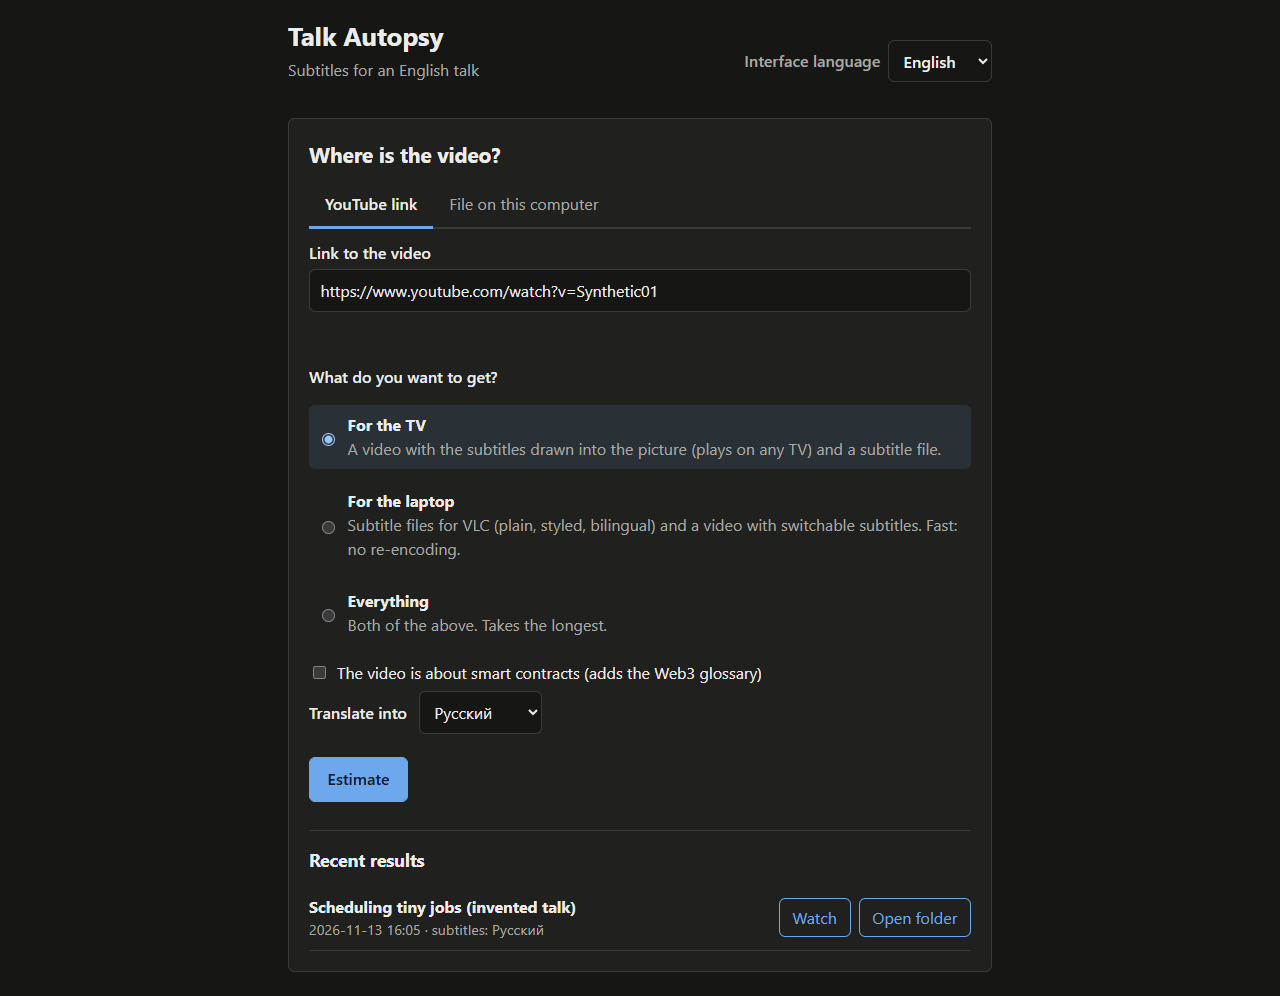
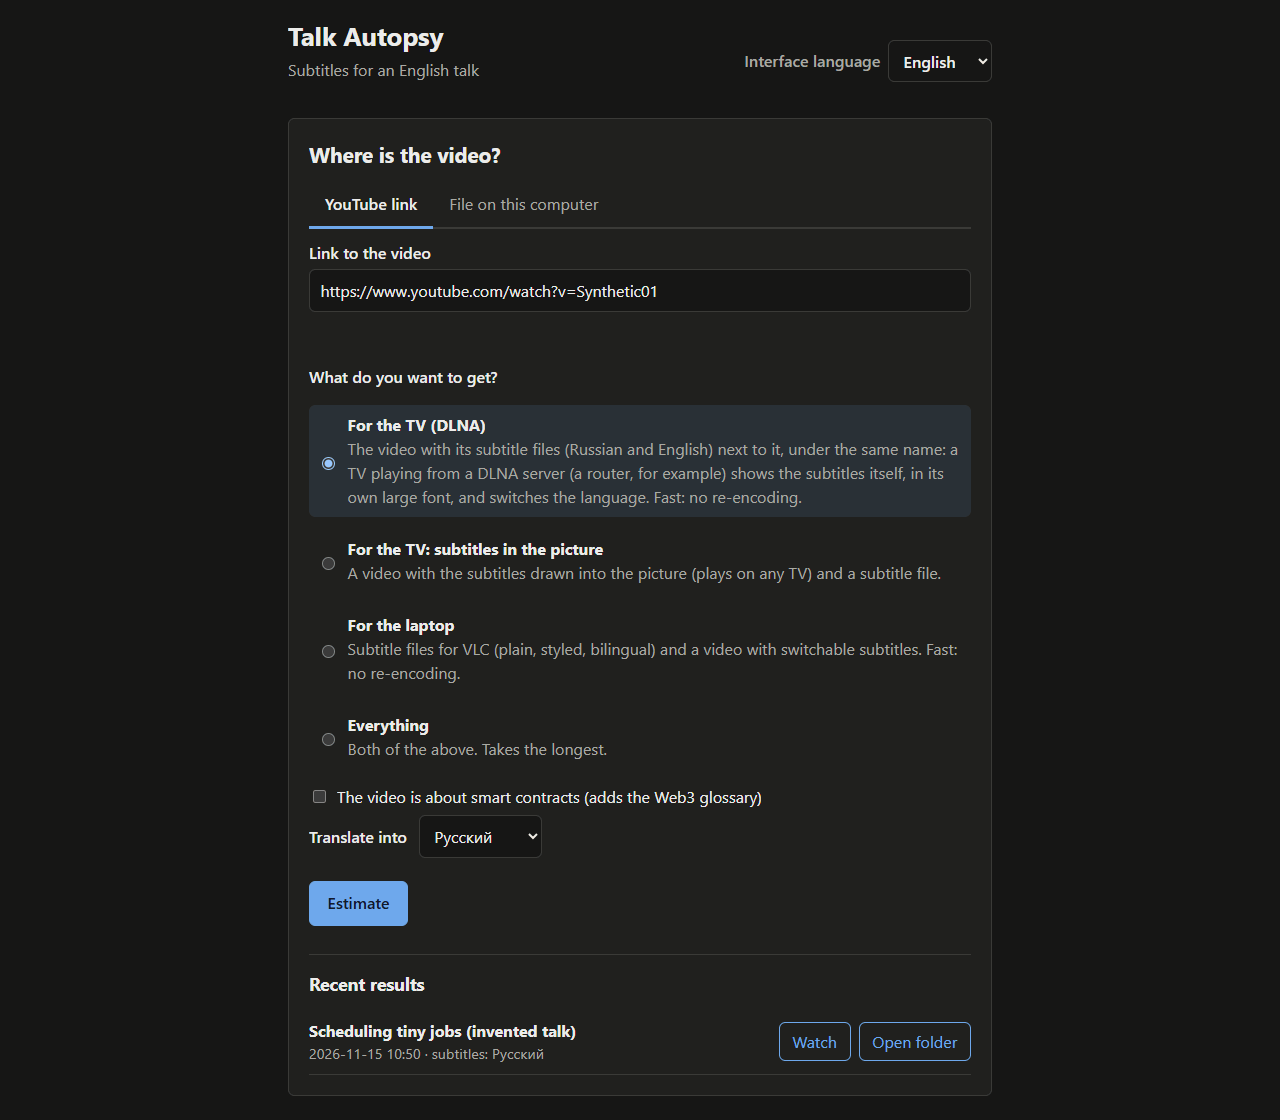
Web: "For the TV (DLNA)" profile, the new default output
The owner's LG TV plays from a DLNA server and shows the .srt files next
to the video in its own larger font, with the language switchable; the
burned-in MP4 (TV default since 2026-11-10, when the TV seemed not to read
subtitle files) is not needed for it. The new profile writes only the
Russian and English .srt next to the original video, named as the course
lessons are; a local file's video is hard-linked into the result folder.
It is the default for videos and courses and the page remembers the last
choice; the other profiles stay. README pictures regenerated.

diff --git a/talk_autopsy/web/static/app.js b/talk_autopsy/web/static/app.js
@@ -90,6 +90,11 @@ async function loadConfig(ui) {
   target.value = chosen;
   updateLangNote();
   renderFile();
+  if (!state.profileSet) { // the profile chosen last on this machine (remembered by the server)
+    const radio = document.querySelector(`input[name="profile"][value="${data.profile_default}"]`);
+    if (radio) radio.checked = true;
+    state.profileSet = true;
+  }
   return true;
 }
 
@@ -275,7 +280,7 @@ async function start() {
     setError("est-error", errorText(data));
     return;
   }
-  api("POST", "/api/settings", { target_lang: request.target_lang }); // remembered for next time
+  api("POST", "/api/settings", { target_lang: request.target_lang, profile: request.profile }); // next time
   attach(data.job);
 }
 
@@ -852,7 +857,7 @@ async function startCourse() {
     setError("course-error", errorText(data));
     return;
   }
-  api("POST", "/api/settings", { target_lang: request.target_lang });
+  api("POST", "/api/settings", { target_lang: request.target_lang, profile: request.profile });
   attachCourse(data.course);
 }
 

diff --git a/talk_autopsy/web/static/index.html b/talk_autopsy/web/static/index.html
@@ -66,7 +66,9 @@
 
       <fieldset class="profiles">
         <legend data-i18n="profile_legend"></legend>
-        <label class="choice"><input type="radio" name="profile" value="tv" checked>
+        <label class="choice"><input type="radio" name="profile" value="dlna" checked>
+          <span><strong data-i18n="profile_dlna"></strong><span class="desc" data-i18n="profile_dlna_desc"></span></span></label>
+        <label class="choice"><input type="radio" name="profile" value="tv">
           <span><strong data-i18n="profile_tv"></strong><span class="desc" data-i18n="profile_tv_desc"></span></span></label>
         <label class="choice"><input type="radio" name="profile" value="laptop">
           <span><strong data-i18n="profile_laptop"></strong><span class="desc" data-i18n="profile_laptop_desc"></span></span></label>

diff --git a/tests/test_web_jobs.py b/tests/test_web_jobs.py
@@ -117,7 +117,7 @@ def test_unknown_fields_are_refused():
 
 def test_preview_of_a_link(tmp_path):
     r, core = runner(tmp_path)
-    preview = r.preview(request())
+    preview = r.preview(request(profile="tv"))
     assert preview.title == "A talk" and preview.duration_s == 600
     assert preview.formats == ["srt", "mp4-burned"]
     assert preview.notes == ["quality_not_measured"]  # lt is not measured
@@ -189,7 +189,7 @@ def test_profiles_map_to_existing_formats(tmp_path, media):
 
 def test_file_job_events_in_order(tmp_path, media):
     r, core = runner(tmp_path)
-    job = r.start(request(mode="file", url=None, path=str(media)))
+    job = r.start(request(mode="file", url=None, path=str(media), profile="tv"))
     events = wait(job)
     assert job.state == "finished"
     assert [e["id"] for e in events] == list(range(1, len(events) + 1))
@@ -503,3 +503,45 @@ def test_numbers_of_pipeline_events_win_over_their_text(tmp_path, media):
     fix = next(e for e in events if e["type"] == "step_finished" and e["step"] == "fix")
     assert fix["cost_usd"] == 0.5 and fix["tokens"]["input"] == 7
     assert [e["claude_usd"] for e in events if "claude_usd" in e] == [0.25]
+
+
+# --- the DLNA profile (default since 2026-11-15): the video and its .srt files only -------------------
+
+
+def test_the_dlna_profile_is_the_default_and_makes_only_the_srt_files(tmp_path):
+    from talk_autopsy.web import settings as web_settings
+    assert request().profile == "dlna" and web_settings.PROFILES["dlna"] == ("srt",)
+    r, core = runner(tmp_path)
+    job = r.start(request())
+    wait(job)
+    assert job.state == "finished"
+    dest = core.output_root() / youtube_folder(core)
+    files = sorted(p.name for p in dest.iterdir() if p.is_file())
+    assert files == ["A talk.mp4", "A talk.srt"], files  # the download and its .srt; nothing burned
+
+
+def youtube_folder(core) -> str:
+    from talk_autopsy import youtube
+    video = core.fetch("https://www.youtube.com/watch?v=abc123", [])
+    return youtube.video_folder_name(video, core.output_root())
+
+
+def test_a_local_video_with_the_dlna_profile_is_linked_next_to_its_subtitles(tmp_path, media):
+    r, core = runner(tmp_path)
+    job = r.start(request(mode="file", url=None, path=str(media)))
+    events = wait(job)
+    assert job.state == "finished"
+    folder = core.output_root() / "talk"
+    assert sorted(p.name for p in folder.iterdir() if p.is_file()) == ["talk.mp4", "talk.srt"]
+    assert (folder / "talk.mp4").read_bytes() == media.read_bytes()
+    assert not any(e["type"] == "step_progress" and e["step"] == "outputs" for e in events)  # nothing burned
+
+
+def test_the_page_remembers_the_profile(tmp_path):
+    from talk_autopsy.web import settings as web_settings
+    path = tmp_path / "web.local.json"
+    assert web_settings.default_profile(web_settings.load_local(path)) == "dlna"
+    web_settings.save_local({"profile": "laptop"}, path)
+    assert web_settings.default_profile(web_settings.load_local(path)) == "laptop"
+    web_settings.save_local({"profile": "nonsense"}, path)
+    assert web_settings.default_profile(web_settings.load_local(path)) == "dlna"

diff --git a/talk_autopsy/web/jobs.py b/talk_autopsy/web/jobs.py
@@ -107,7 +107,7 @@ class JobRequest(BaseModel):
     mode: Literal["url", "file"]
     url: str | None = None
     path: str | None = None
-    profile: Literal["tv", "laptop", "all"] = "tv"
+    profile: Literal["dlna", "tv", "laptop", "all"] = "dlna"
     domain: Literal["none", "web3"] = "none"
     target_lang: str
     confirmed_cost_usd: float | None = None
@@ -700,7 +700,11 @@ def result_id(output_root: Path, folder: Path) -> str | None:
 
 
 def copy_audio(source: Path, dest: Path, stem: str) -> Path | None:
-    """An audio-only input linked (or copied) into its result folder, so the player can serve it."""
+    """
+    A local input linked (or, on another drive, copied) into its result folder as <stem><ext>: an
+    audio-only input, so the player can serve it; a video with the "dlna" profile, so the TV finds
+    the video next to its .srt files.
+    """
     target = dest / f"{stem}{source.suffix.lower()}"
     try:
         if target.is_file() or source.resolve() == target.resolve():
@@ -1053,6 +1057,10 @@ class JobRunner:
                 copied = copy_audio(settings.source, dest, stem)  # the player serves only the output folder
                 if copied is not None:
                     written.append(outputs.Written("audio", copied))
+            elif request.mode == "file" and request.profile == "dlna":
+                copied = copy_audio(settings.source, dest, stem)  # the video next to its .srt (DLNA)
+                if copied is not None:
+                    written.append(outputs.Written("video", copied))
             # the report's totals are the pipeline's own numbers; they win over the parsed ones
             job.cost_usd, job.stt_cost_usd = report.cost_usd, report.stt_cost_usd
             gaps = self._failed_parts(settings)

diff --git a/talk_autopsy/web/settings.py b/talk_autopsy/web/settings.py
@@ -39,12 +39,17 @@ DOMAINS = ("none", "web3")
 WEB3_DICTIONARY = "web3"
 
 # Output profiles -> the core's existing --output formats (outputs.FORMATS); no new behaviour.
+# "dlna" (the default since 2026-11-15): the original video and its .srt files only, named alike
+# (<stem>.mp4, <stem>.srt, <stem>.en.srt), which a TV playing from a DLNA server finds and shows in its
+# own large font, with the language switchable on the TV (owner, docs/decisions.md).
 PROFILES: dict[str, tuple[str, ...]] = {
+    "dlna": ("srt",),
     "tv": ("srt", "mp4-burned"),
     "laptop": ("srt", "ass", "bilingual", "mp4-soft"),
     "all": ("srt", "ass", "bilingual", "mp4-soft", "mp4-burned"),
 }
 VIDEO_FORMATS = frozenset({"mp4-soft", "mp4-burned"})
+DEFAULT_PROFILE = "dlna"
 
 COST_LIMIT_USD = config.COST_CONFIRMATION_USD  # per video, Claude + speech recognition estimate
 LOCAL_SETTINGS = config.PROJECT_ROOT / "web.local.json"
@@ -93,6 +98,12 @@ def save_local(updates: dict, path: Path | None = None) -> bool:
 def default_target_lang(local: dict | None = None) -> str:
     value = (local if local is not None else load_local()).get("target_lang")
     return value if value in target_codes() else target_codes()[0]
+
+
+def default_profile(local: dict | None = None) -> str:
+    """The profile chosen last on this machine (remembered by the page), else DEFAULT_PROFILE."""
+    value = (local if local is not None else load_local()).get("profile")
+    return value if value in PROFILES else DEFAULT_PROFILE
 
 
 def default_ui_lang(local: dict | None = None) -> str:

diff --git a/talk_autopsy/web/app.py b/talk_autopsy/web/app.py
@@ -220,6 +220,7 @@ def create_app(port: int, runner: JobRunner | None = None, token: str | None = N
             "strings": web_settings.ui_strings(ui_lang),
             "domains": list(web_settings.DOMAINS),
             "profiles": [{"id": k, "formats": list(v)} for k, v in web_settings.PROFILES.items()],
+            "profile_default": web_settings.default_profile(local),
             "cost_limit_usd": runner.limit_usd,
         }
 
@@ -232,6 +233,8 @@ def create_app(port: int, runner: JobRunner | None = None, token: str | None = N
             updates["target_lang"] = payload["target_lang"]
         if payload.get("ui_lang") in web_settings.ui_codes():
             updates["ui_lang"] = payload["ui_lang"]
+        if payload.get("profile") in web_settings.PROFILES:
+            updates["profile"] = payload["profile"]
         if not updates:
             return error(422, "bad_request", "Nothing to remember.")
         return {"saved": web_settings.save_local(updates, local_settings)}

diff --git a/tests/test_web_app.py b/tests/test_web_app.py
@@ -114,7 +114,8 @@ def test_config_lists_languages_profiles_and_strings(setup):
     assert config["languages"]["target"][0]["code"] == "lt"
     assert config["languages"]["target_default"] == "lt"
     assert config["ui_lang"] == "ru" and config["strings"]["tab_url"] == "Ссылка YouTube"
-    assert [p["id"] for p in config["profiles"]] == ["tv", "laptop", "all"]
+    assert [p["id"] for p in config["profiles"]] == ["dlna", "tv", "laptop", "all"]
+    assert config["profile_default"] == "dlna"  # nothing remembered yet
     assert config["cost_limit_usd"] == 3.0 and config["domains"] == ["none", "web3"]
 
 

diff --git a/talk_autopsy/web/courses.py b/talk_autopsy/web/courses.py
@@ -70,7 +70,7 @@ class CourseRequest(BaseModel):
     model_config = ConfigDict(extra="forbid")
 
     url: str
-    profile: Literal["tv", "laptop", "all"] = "tv"
+    profile: Literal["dlna", "tv", "laptop", "all"] = "dlna"
     domain: Literal["none", "web3"] = "none"
     target_lang: str
     course_glossary: bool = course_glossary.DEFAULT_ON

diff --git a/docs/decisions.md b/docs/decisions.md
@@ -6,6 +6,25 @@ log records what was decided and why.
 
 Entry format: date, decision, why, and what it rules out.
 
+## 2026-11-15 — Default output: "for the TV (DLNA)", subtitle files next to the video
+
+Decision (owner, with evidence: photos of the TV screen checked by the owner):
+a new profile **"для ТВ (DLNA)" (`dlna`) is the default** for single videos and
+courses; the page remembers the last choice. It writes only the `.srt` files
+next to the original video, named exactly as the course lessons 1-10 have them
+(`<stem>.mp4`, `<stem>.srt` Russian, `<stem>.en.srt` English), which the owner
+verified the TV finds: no burned-in `.ru.mp4`, no `.subs.mp4`, no extra copy (a
+local file's video is hard-linked into its result folder under that name, as
+audio already was). The other profiles stay as options.
+
+Why: the owner's LG TV plays videos from a Keenetic router's DLNA server and
+shows subtitles from the external `.srt` files next to the video, can switch
+the language, and draws them in a much larger, easier font than our burned-in
+subtitles. The burned-in variant became the TV default on 2026-11-10 (YouTube
+input and output formats, `docs/experiments.md`) when the TV seemed not to read
+subtitle files; over DLNA it does. It also saves the burn-in time (minutes per
+lesson) and one large file per video.
+
 ## 2026-11-14 — Dictionary v2.1: deploy -> «развернуть»; the default for real use
 
 Owner (evening, after the E1 runs): rows `deploy` / `deployment` go back to the

diff --git a/README.md b/README.md
@@ -264,9 +264,12 @@ Four screens (every picture here is a replayed recording of an invented talk,
 not a real video):
 
 1. **Form and estimate.** A YouTube link or a file on this computer (the native
-   file dialog), what you want to get (for the TV: subtitles burned into the
-   picture plus an `.srt`; for the laptop: `.srt`, `.ass`, bilingual `.ass` and
-   an MP4 with switchable subtitle tracks; or everything), the Web3 glossary and
+   file dialog), what you want to get (by default, for a TV that plays from a
+   DLNA server: the video with its Russian and English `.srt` next to it, which
+   the TV shows in its own font and lets you switch; or for a TV without that:
+   subtitles burned into the picture plus an `.srt`; for the laptop: `.srt`,
+   `.ass`, bilingual `.ass` and an MP4 with switchable subtitle tracks; or
+   everything; the page remembers the last choice), the Web3 glossary and
    the target language. The estimate shows cost and time before anything is
    spent; above 3 USD per video (Claude plus speech recognition, the same limit
    as `run --max-cost`) the page asks you to confirm that exact amount.

diff --git a/docs/web.md b/docs/web.md
@@ -394,8 +394,11 @@ start page.
 | `GET /api/doctor` | the `doctor` checks; key names with set / not set only |
 
 Requests: `mode` = `url` or `file` with exactly one of `url` / `path`;
-`profile` = `tv` (burned-in `.<lang>.mp4` + `.srt`), `laptop` (`.srt`, `.ass`,
-`.bilingual.ass`, `.subs.mp4`) or `all`; `domain` = `none` / `web3`;
+`profile` = `dlna` (the default since 2026-11-15: only the `.srt` files next to
+the original video, `<stem>.mp4` + `<stem>.srt` + `<stem>.en.srt`; a local file's
+video is hard-linked into the result folder under that name), `tv` (burned-in
+`.<lang>.mp4` + `.srt`), `laptop` (`.srt`, `.ass`, `.bilingual.ass`, `.subs.mp4`)
+or `all`; the page remembers the last profile (`web.local.json`, `profile`); `domain` = `none` / `web3`;
 `target_lang` from the offered list. A playlist link is refused by
 `/api/estimate` with the code `playlist` (the page opens the course screen
 instead); courses have their own requests (Courses, above): the same `profile`,

diff --git a/CHANGELOG.md b/CHANGELOG.md
@@ -10,6 +10,11 @@ about).
 
 **Added**
 
+- **"For the TV (DLNA)", the new default output** (single videos and courses):
+  only the Russian and English `.srt` next to the original video, under the
+  same name, which a TV playing from a DLNA server shows in its own large font
+  and lets you switch; no burned-in MP4. The page remembers the last choice;
+  the other outputs stay as options.
 - **Courses in the web page.** A playlist link (or "the whole playlist" for a
   video link with `&list=`) opens a course screen: the lessons with checkboxes
   and ranges, "already done" for lessons finished before or fully cached,
